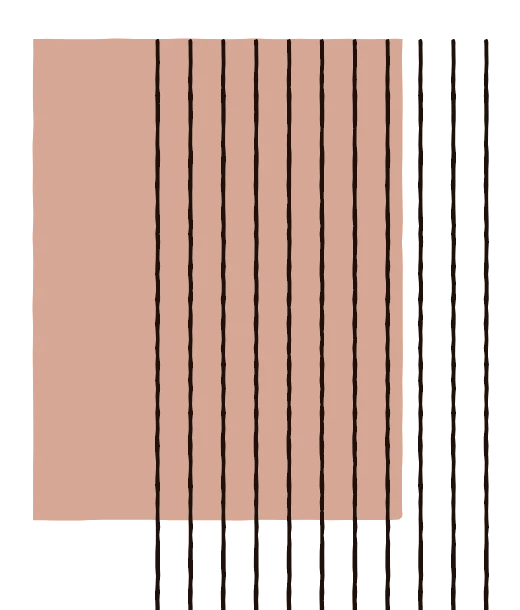
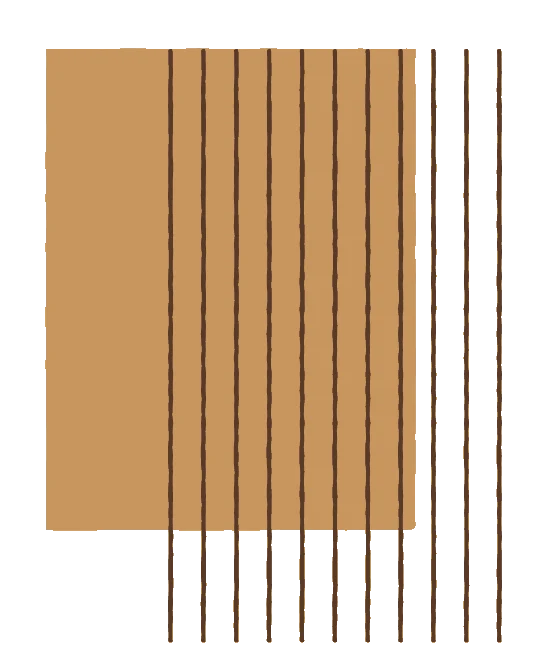
Poklon bon bez crtica izmedju minuta; nova pozadina iza Tijelo/San/Napetost/Tempo

diff --git a/en/index.html b/en/index.html
@@ -96,9 +96,9 @@
   /* 4 poster-motiva (abstrakt-5) kao izblijedjena pozadina iza svake stavke */
   .nn .fy-item{position:relative;padding-top:.5rem}
   .nn .fy-item::before{content:"";position:absolute;left:50%;top:50%;transform:translate(-50%,-50%);
-    height:82%;opacity:.1;margin-top:6%;pointer-events:none;z-index:0;
+    height:150%;opacity:.11;pointer-events:none;z-index:0;
     background:center/contain no-repeat}
-  .nn .fy-item::before{background-image:url('../wp-content/uploads/soul/motiv-a7-4.webp');aspect-ratio:308/426}
+  .nn .fy-item::before{background-image:url('../wp-content/uploads/soul/motiv-a3-3.webp');aspect-ratio:544/667}
   .nn .fy-item svg,.nn .fy-item .lbl,.nn .fy-item p{position:relative;z-index:1}
   @media(max-width:860px){
     .nn .fy-grid{grid-template-columns:repeat(2,minmax(0,1fr));max-width:440px;gap:3.8rem 1.2rem}
@@ -207,13 +207,12 @@
   .nn .gcopy h2{font-family:var(--script);font-weight:400;-webkit-text-stroke:.7px currentColor;
     font-size:clamp(2.6rem,5.4vw,4.6rem);line-height:1.15;margin-bottom:2.6rem;white-space:nowrap;
     text-transform:none;letter-spacing:normal;color:var(--gold-lite)}
-  .nn .v-mins{display:flex;align-items:baseline;justify-content:center;gap:clamp(1.3rem,2.6vw,2.3rem);margin:0 0 1.7rem}
+  .nn .v-mins{display:flex;align-items:baseline;justify-content:center;gap:clamp(1.9rem,3.6vw,3.2rem);margin:0 0 3.4rem}
   .nn .vm{display:flex;flex-direction:row;align-items:baseline;gap:.3rem}
   .nn .vm-n{font-family:var(--serif);font-size:clamp(1.7rem,2.5vw,2.2rem);line-height:1;color:var(--terra-bright)}
   .nn .vm-u{font-family:var(--caps);font-size:.68rem;letter-spacing:.18em;text-transform:uppercase;color:var(--lite-dim)}
-  .nn .v-sep{align-self:center;width:1px;height:1.25rem;background:rgba(224,199,159,.38)}
-  .nn .gcopy p{font-size:clamp(1rem,1.24vw,1.12rem);line-height:1.7;color:var(--lite-muted);max-width:34ch;margin:0 0 2.4rem}
-  .nn .v-hair{display:block;width:64px;height:1px;background:rgba(224,199,159,.32);margin:0 0 2.2rem}
+  .nn .gcopy p{font-size:clamp(1rem,1.24vw,1.12rem);line-height:1.7;color:var(--lite-muted);max-width:34ch;margin:0 0 1.9rem}
+  .nn .v-hair{display:block;width:64px;height:1px;background:rgba(224,199,159,.32);margin:0 0 1.9rem}
   .nn .gift-cta{position:relative;z-index:3;display:inline-block;white-space:nowrap;min-width:17.3rem;text-align:center;font-family:var(--caps);font-weight:600;
     font-size:.75rem;letter-spacing:.3em;text-transform:uppercase;color:#FFF3E5;
     background:transparent;border:1px solid #FFF3E5;border-radius:999px;
@@ -225,17 +224,16 @@
     .nn .gift{padding:3.5rem 1rem calc(3.5rem + 7rem)}
     .nn .gwrap{padding:clamp(3rem,9vw,4rem) 1.2rem}
     .nn .gcopy h2{font-size:min(2.85rem,11.6vw);margin-bottom:2.2rem}
-    .nn .v-mins{gap:1.1rem;margin-bottom:1.5rem}
+    .nn .v-mins{gap:1.6rem;margin-bottom:2.8rem}
     .nn .vm{gap:.24rem}
     .nn .vm-n{font-size:1.7rem}
     .nn .vm-u{font-size:.64rem}
-    .nn .gcopy p{font-size:1.08rem;max-width:28ch;margin-bottom:2.1rem}
+    .nn .gcopy p{font-size:1.08rem;max-width:28ch;margin-bottom:1.7rem}
     .nn .gift-cta{white-space:nowrap;min-width:min(17.3rem,100%)}}
   @media(max-width:380px){
-    .nn .v-mins{gap:.8rem}
+    .nn .v-mins{gap:1.25rem}
     .nn .vm-n{font-size:1.42rem}
-    .nn .vm-u{font-size:.58rem;letter-spacing:.12em}
-    .nn .v-sep{height:1.05rem}}
+    .nn .vm-u{font-size:.58rem;letter-spacing:.12em}}
   @media(max-width:360px){
     .nn .gift-cta{font-size:.66rem;letter-spacing:.14em;padding:.85rem 1rem}}
 
@@ -486,9 +484,7 @@
           <h2>Gift voucher</h2>
           <div class="v-mins">
             <div class="vm"><span class="vm-n">60</span><span class="vm-u">min</span></div>
-            <span class="v-sep" aria-hidden="true"></span>
             <div class="vm"><span class="vm-n">75</span><span class="vm-u">min</span></div>
-            <span class="v-sep" aria-hidden="true"></span>
             <div class="vm"><span class="vm-n">90</span><span class="vm-u">min</span></div>
           </div>
           <p>Give someone what can't usually be bought, time just for themselves.</p>

diff --git a/index.html b/index.html
@@ -97,9 +97,9 @@
   /* 4 poster-motiva (abstrakt-5) kao izblijedjena pozadina iza svake stavke */
   .nn .fy-item{position:relative;padding-top:.5rem}
   .nn .fy-item::before{content:"";position:absolute;left:50%;top:50%;transform:translate(-50%,-50%);
-    height:82%;opacity:.1;margin-top:6%;pointer-events:none;z-index:0;
+    height:150%;opacity:.11;pointer-events:none;z-index:0;
     background:center/contain no-repeat}
-  .nn .fy-item::before{background-image:url('wp-content/uploads/soul/motiv-a7-4.webp');aspect-ratio:308/426}
+  .nn .fy-item::before{background-image:url('wp-content/uploads/soul/motiv-a3-3.webp');aspect-ratio:544/667}
   .nn .fy-item svg,.nn .fy-item .lbl,.nn .fy-item p{position:relative;z-index:1}
   @media(max-width:860px){
     .nn .fy-grid{grid-template-columns:repeat(2,minmax(0,1fr));max-width:440px;gap:3.8rem 1.2rem}
@@ -208,13 +208,12 @@
   .nn .gcopy h2{font-family:var(--script);font-weight:400;-webkit-text-stroke:.7px currentColor;
     font-size:clamp(2.6rem,5.4vw,4.6rem);line-height:1.15;margin-bottom:2.6rem;white-space:nowrap;
     text-transform:none;letter-spacing:normal;color:var(--gold-lite)}
-  .nn .v-mins{display:flex;align-items:baseline;justify-content:center;gap:clamp(1.3rem,2.6vw,2.3rem);margin:0 0 1.7rem}
+  .nn .v-mins{display:flex;align-items:baseline;justify-content:center;gap:clamp(1.9rem,3.6vw,3.2rem);margin:0 0 3.4rem}
   .nn .vm{display:flex;flex-direction:row;align-items:baseline;gap:.3rem}
   .nn .vm-n{font-family:var(--serif);font-size:clamp(1.7rem,2.5vw,2.2rem);line-height:1;color:var(--terra-bright)}
   .nn .vm-u{font-family:var(--caps);font-size:.68rem;letter-spacing:.18em;text-transform:uppercase;color:var(--lite-dim)}
-  .nn .v-sep{align-self:center;width:1px;height:1.25rem;background:rgba(224,199,159,.38)}
-  .nn .gcopy p{font-size:clamp(1rem,1.24vw,1.12rem);line-height:1.7;color:var(--lite-muted);max-width:34ch;margin:0 0 2.4rem}
-  .nn .v-hair{display:block;width:64px;height:1px;background:rgba(224,199,159,.32);margin:0 0 2.2rem}
+  .nn .gcopy p{font-size:clamp(1rem,1.24vw,1.12rem);line-height:1.7;color:var(--lite-muted);max-width:34ch;margin:0 0 1.9rem}
+  .nn .v-hair{display:block;width:64px;height:1px;background:rgba(224,199,159,.32);margin:0 0 1.9rem}
   .nn .gift-cta{position:relative;z-index:3;display:inline-block;white-space:nowrap;min-width:17.3rem;text-align:center;font-family:var(--caps);font-weight:600;
     font-size:.75rem;letter-spacing:.3em;text-transform:uppercase;color:#FFF3E5;
     background:transparent;border:1px solid #FFF3E5;border-radius:999px;
@@ -226,17 +225,16 @@
     .nn .gift{padding:3.5rem 1rem calc(3.5rem + 7rem)}
     .nn .gwrap{padding:clamp(3rem,9vw,4rem) 1.2rem}
     .nn .gcopy h2{font-size:min(2.85rem,11.6vw);margin-bottom:2.2rem}
-    .nn .v-mins{gap:1.1rem;margin-bottom:1.5rem}
+    .nn .v-mins{gap:1.6rem;margin-bottom:2.8rem}
     .nn .vm{gap:.24rem}
     .nn .vm-n{font-size:1.7rem}
     .nn .vm-u{font-size:.64rem}
-    .nn .gcopy p{font-size:1.08rem;max-width:28ch;margin-bottom:2.1rem}
+    .nn .gcopy p{font-size:1.08rem;max-width:28ch;margin-bottom:1.7rem}
     .nn .gift-cta{white-space:nowrap;min-width:min(17.3rem,100%)}}
   @media(max-width:380px){
-    .nn .v-mins{gap:.8rem}
+    .nn .v-mins{gap:1.25rem}
     .nn .vm-n{font-size:1.42rem}
-    .nn .vm-u{font-size:.58rem;letter-spacing:.12em}
-    .nn .v-sep{height:1.05rem}}
+    .nn .vm-u{font-size:.58rem;letter-spacing:.12em}}
   @media(max-width:360px){
     .nn .gift-cta{font-size:.66rem;letter-spacing:.14em;padding:.85rem 1rem}}
 
@@ -487,9 +485,7 @@
           <h2>Poklon bon</h2>
           <div class="v-mins">
             <div class="vm"><span class="vm-n">60</span><span class="vm-u">min</span></div>
-            <span class="v-sep" aria-hidden="true"></span>
             <div class="vm"><span class="vm-n">75</span><span class="vm-u">min</span></div>
-            <span class="v-sep" aria-hidden="true"></span>
             <div class="vm"><span class="vm-n">90</span><span class="vm-u">min</span></div>
           </div>
           <p>Pokloni nekome ono što se ne može kupiti, vrijeme samo za sebe.</p>
